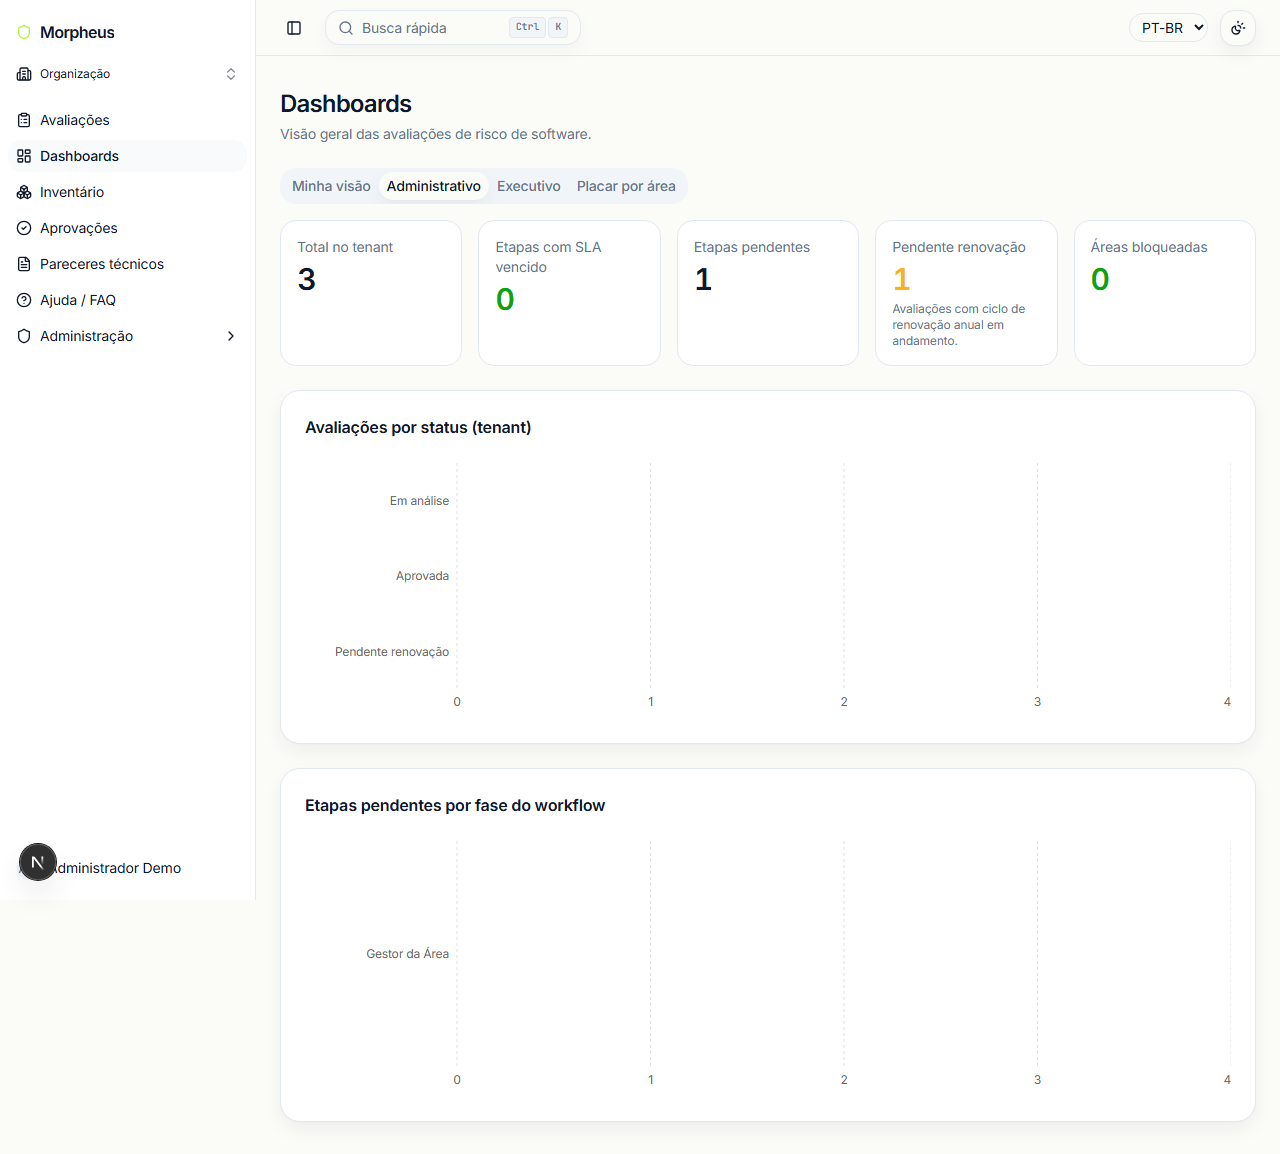
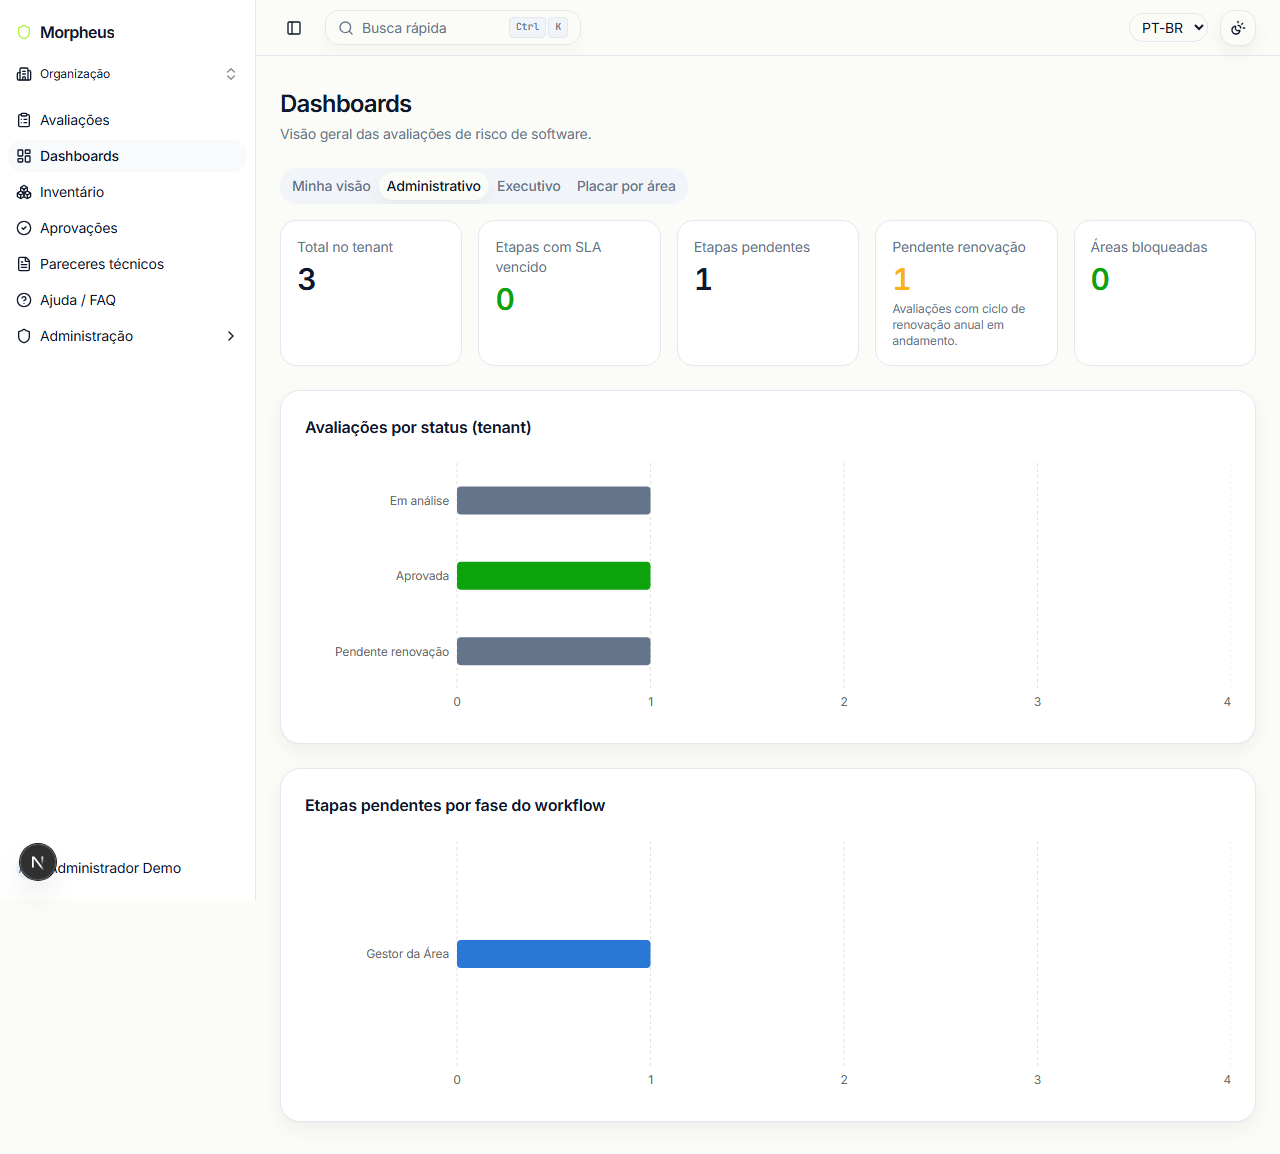
fix: regenera screenshots de dashboard com barras ausentes
As barras dos gráficos recharts (Administrativo, Placar por área) apareciam
vazias em 3 screenshots do README. Investigação confirmou que não é um bug
de aplicação — é uma peculiaridade do Chromium headless em que o primeiro
fullPage screenshot logo após uma troca de aba às vezes não inclui o frame
que pinta fill="var(--x)" nas barras SVG. Contornado tirando um screenshot
de viewport descartável antes do fullPage real.

Changed region(s): [[0.3438, 0.4055, 0.5312, 0.5927], [0.3438, 0.8111, 0.5312, 0.8423]]

diff --git a/docs/DEVELOPMENT.md b/docs/DEVELOPMENT.md
@@ -1844,3 +1844,37 @@ Com a Fase 6, as 6 fases do plano de renovação anual de homologação estão c
     nome acessível e não ambiguou.
   - Sem mudança de código - só `README.md` e os arquivos de screenshot (4 PT-BR atualizados + 6 EN
     novos).
+- **Investigação: barras dos gráficos "sumindo" em 3 screenshots** (usuário reportou, 2026-07-24,
+  apontando `dashboard-administrativo.png`, `dashboard-placar-por-area.png` e
+  `dashboard-placar-por-area-en.png` - as barras do recharts apareciam totalmente ausentes, só os
+  eixos/labels). Investigado a fundo com Playwright direto no app rodando (não só olhando os
+  screenshots existentes) antes de mexer em qualquer código, pra não "consertar" um bug que não
+  existisse:
+  - Confirmado que **não é um bug de aplicação**: inspecionado o DOM ao vivo (`admin@morpheus.demo`,
+    tenant demo) - os `<path>` do recharts (`.recharts-bar-rectangle path`) sempre tinham geometria
+    correta (`width`/`height` != 0), `fill` resolvendo pra cor real via `getComputedStyle` (as cores
+    vêm de `colorForOutcomeKey()` em `dashboard-colors.ts`, que retorna `var(--chart-good)` etc.,
+    variáveis CSS reais e definidas), `opacity: 1`, `visibility: visible`, e passavam em
+    `elementFromPoint()` (ou seja, são o elemento clicável no topo daquele ponto - nada as cobre).
+    Repetido em 4 trials seguidos sem nenhuma falha.
+  - Isolado o culpado: é uma peculiaridade específica do **primeiro `page.screenshot({fullPage:
+    true})` do Chromium headless logo após um `click()` de troca de aba** (Radix `Tabs`) que monta
+    um `<BarChart>` novo - o pipeline de composição às vezes não inclui o frame que pinta os `fill`
+    baseados em `var(--x)` nesse primeiro fullPage capture, mesmo com `wait`s generosos (testado até
+    2500ms) e mesmo forçando leitura de `getBoundingClientRect()`/`getComputedStyle()` antes (que
+    intuitivamente forçaria layout mas não resolveu). Reproduzido de forma 100% determinística nessa
+    sequência exata (login → `/dashboards` → click na aba → `fullPage` screenshot).
+  - **O que resolve, comprovado por teste A/B no mesmo estado de página**: tirar qualquer screenshot
+    de viewport comum (`page.screenshot()`, sem `fullPage`) IMEDIATAMENTE ANTES do `fullPage` real -
+    isso força o Chromium a flushar o pipeline de pintura, e o `fullPage` seguinte (mesmo sem esperar
+    mais nada) sai correto. Não achamos necessidade de investigar mais fundo o motivo exato dentro do
+    Chromium - o ponto prático é que é 100% contornável e não afeta usuário real (usuário nunca tira
+    um "fullPage screenshot" da própria tela; scroll/resize/mouse-move do uso normal já forçam pintura
+    o tempo todo).
+  - Screenshots regeneradas com esse contorno (script Playwright descartável, deletado depois):
+    `dashboard-administrativo.png`, `dashboard-placar-por-area.png` (pt-BR) e
+    `dashboard-placar-por-area-en.png` (en) - as 3 confirmadas visualmente com as barras aparecendo.
+  - **Como aplicar**: se aparecer de novo um screenshot de gráfico recharts "sem barra" capturado via
+    Playwright/Chromium headless, antes de suspeitar do código, tirar um screenshot descartável
+    (viewport, sem `fullPage`) logo antes do real - resolve na maioria dos casos. Sem mudança de
+    código nesta entrada - só os 3 arquivos de screenshot.
